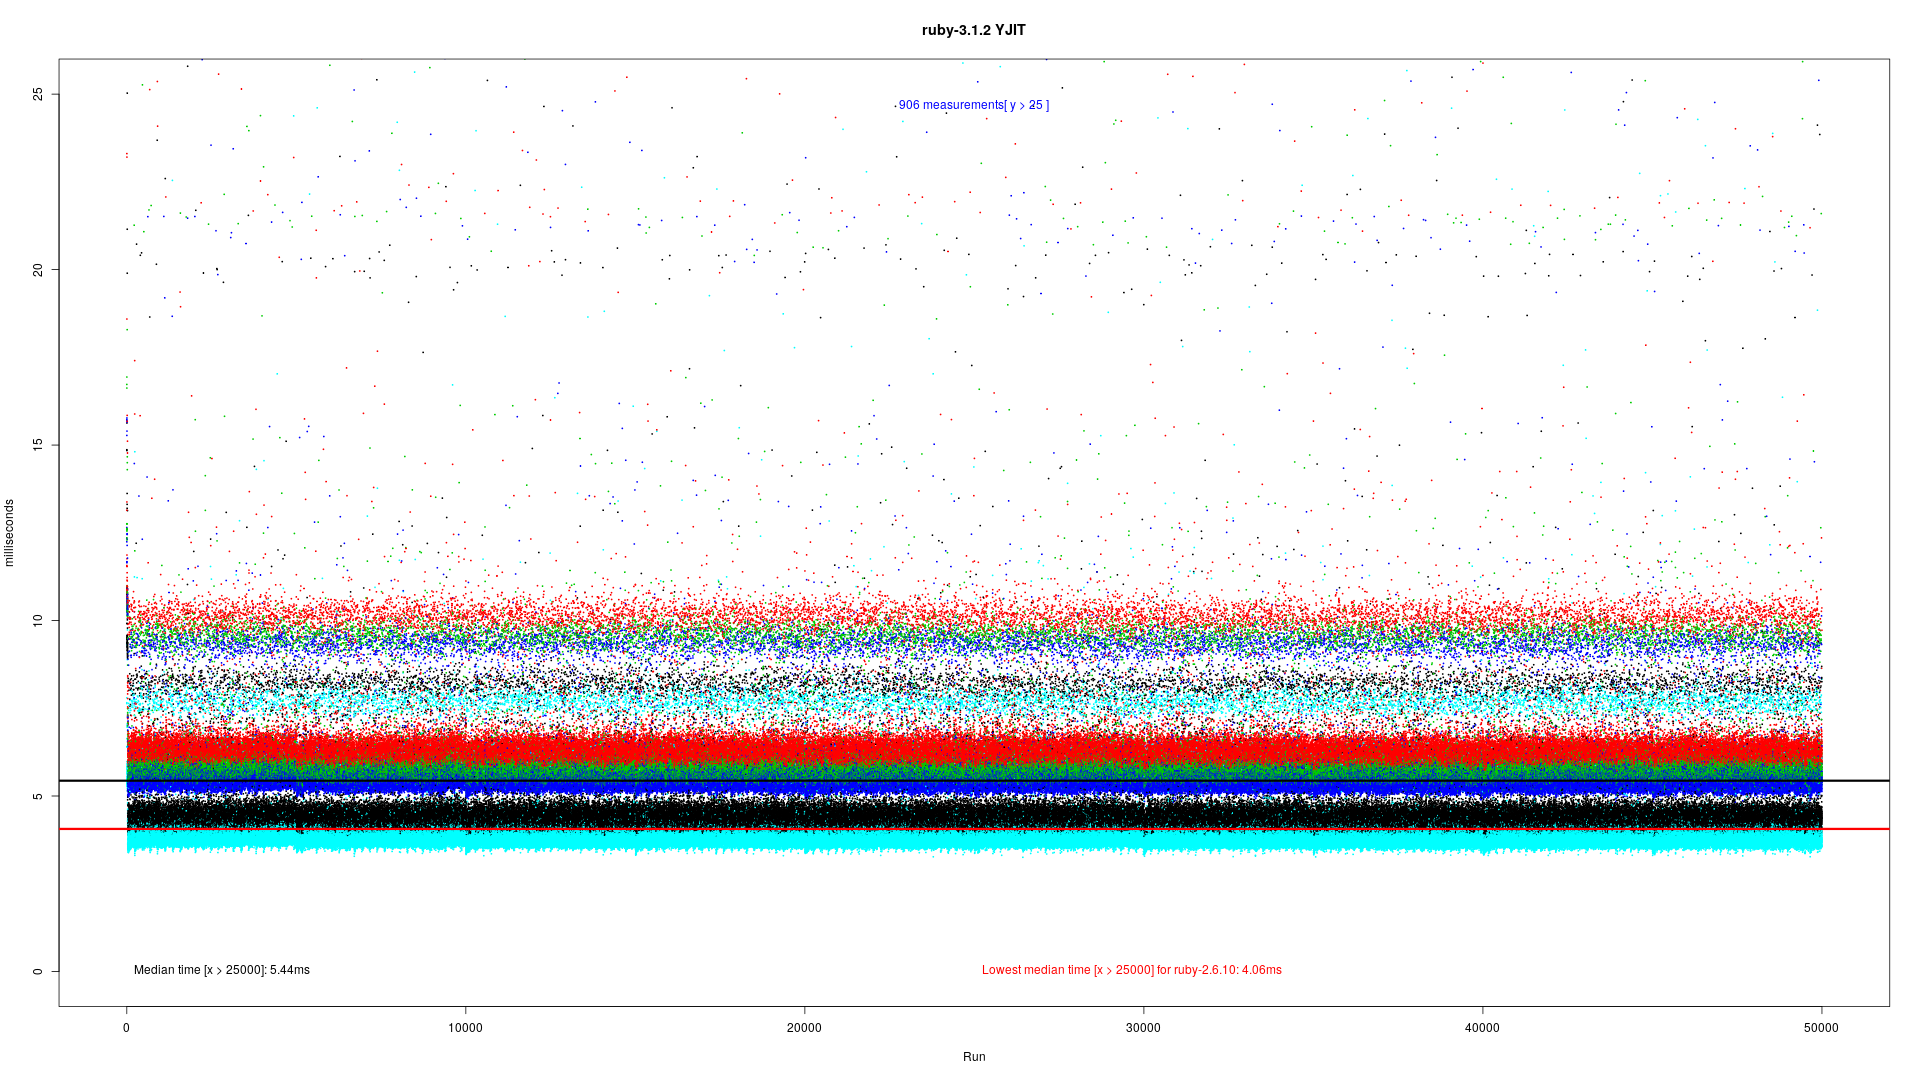
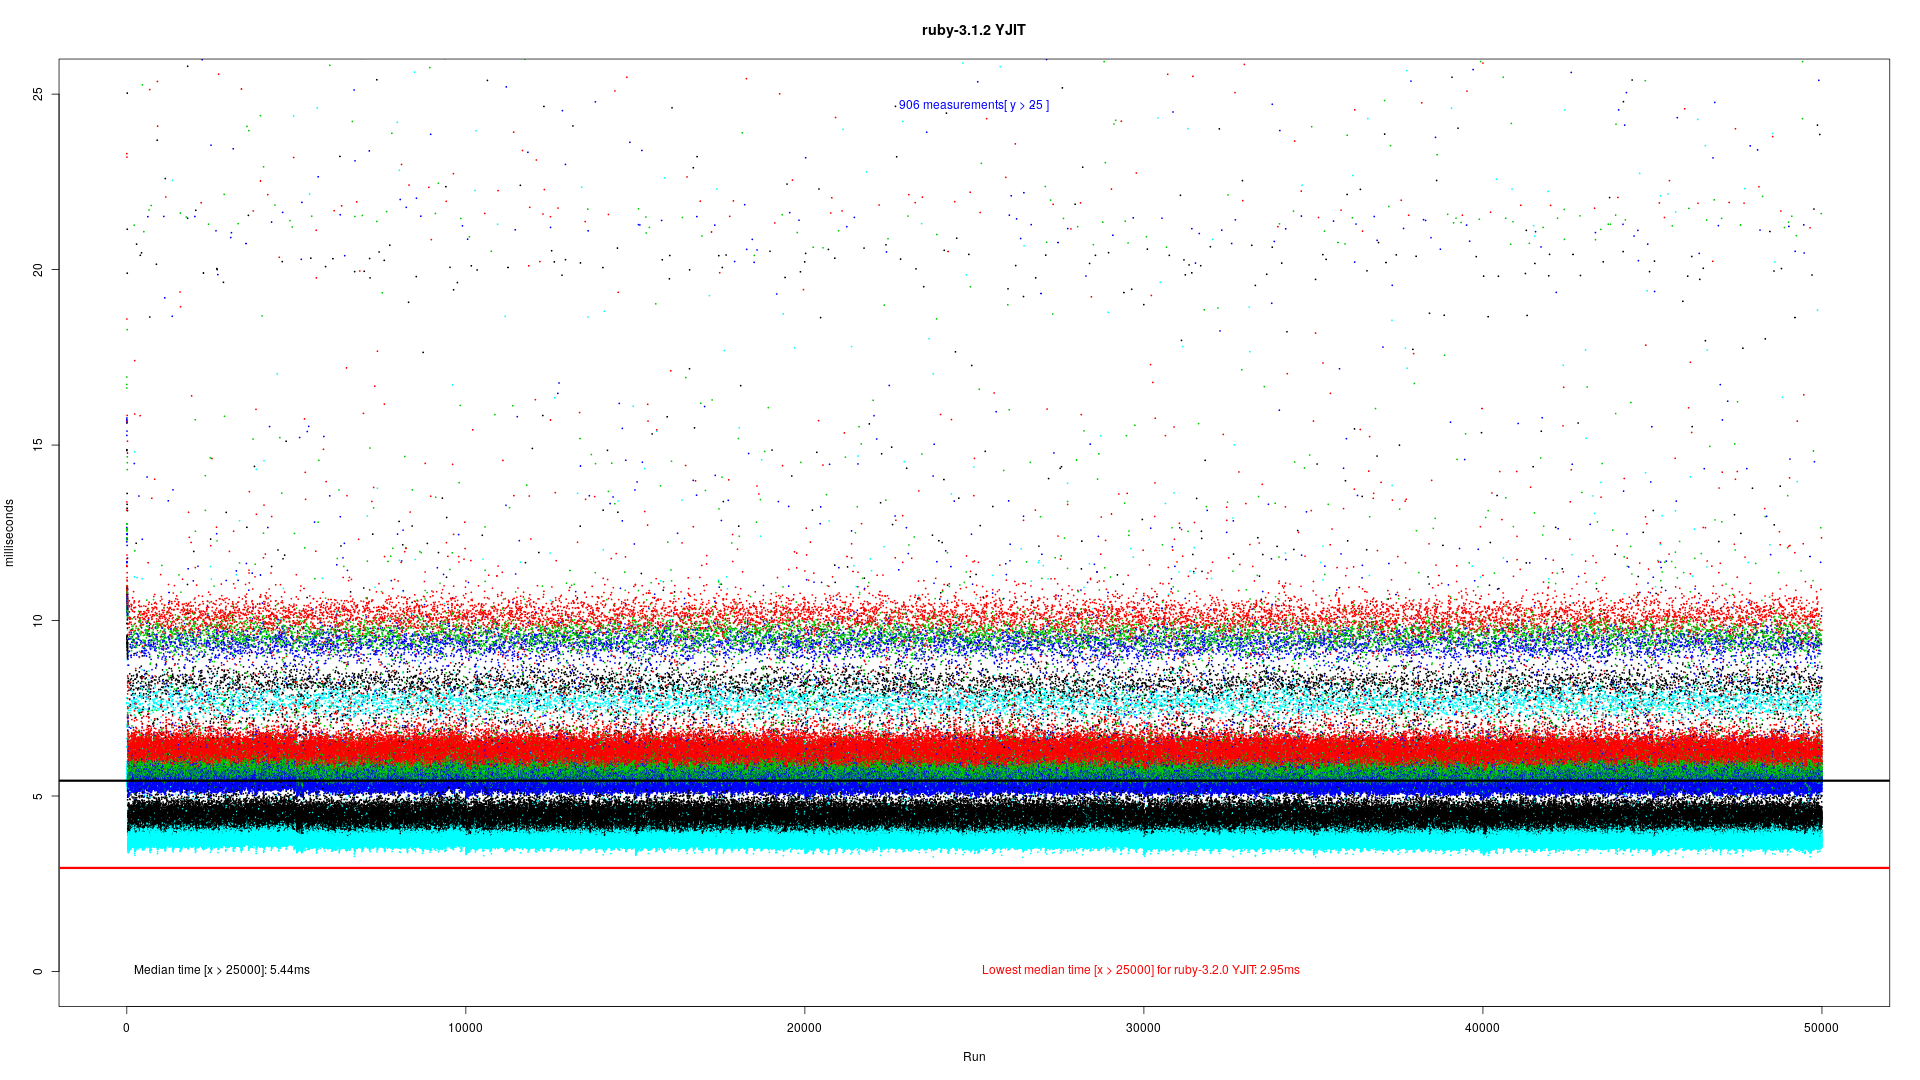
Update rails-devise results using final Ruby 3.2.0

Changed region(s): [[0.625, 0.8861, 0.6875, 0.9167]]

diff --git a/data/rails_devise/README.md b/data/rails_devise/README.md
@@ -12,7 +12,7 @@ Five url's were included in the test:
 5. index-page with bad cookie (cyan)
 
 ## System
-OS: Linux 4.15.0-177-generic #186-Ubuntu SMP Thu Apr 14 20:23:07 UTC 2022 x86_64 GNU/Linux  
+OS: Linux 4.15.0-200-generic #211-Ubuntu SMP Thu Nov 24 18:16:04 UTC 2022 x86_64 GNU/Linux  
 CPU: AuthenticAMD AMD Ryzen 7 2700X Eight-Core Processor  
 
 ## Tested Rubies
@@ -26,17 +26,17 @@ CPU: AuthenticAMD AMD Ryzen 7 2700X Eight-Core Processor
 | ruby-3.1.2                |      |      67Mb |      98Mb |     1180s |    4.67ms |    4.69ms |    2.08ms |    14242 |        0 |   750000 |      545 |
 | ruby-3.1.2                | MJIT |      64Mb |     146Mb |     1321s |    5.05ms |    4.75ms |    3.62ms |    43959 |        0 |   750000 |     2131 |
 | ruby-3.1.2                | YJIT |      77Mb |     132Mb |     1361s |    5.38ms |    5.44ms |    1.98ms |    41548 |        0 |   750000 |      226 |
-| ruby-3.2.0-preview1       |      |      64Mb |      97Mb |     1068s |    4.22ms |    4.26ms |     1.7ms |     3811 |        0 |   750000 |      183 |
-| ruby-3.2.0-preview1       | MJIT |      67Mb |     147Mb |     1198s |    4.51ms |    4.32ms |     3.5ms |    13100 |        0 |   750000 |     1682 |
-| ruby-3.2.0-preview1       | YJIT |      77Mb |     119Mb |     1359s |    5.37ms |    5.42ms |    2.59ms |    35053 |        0 |   750000 |      471 |
+| ruby-3.2.0                |      |      69Mb |     104Mb |     1001s |    3.94ms |    3.99ms |    0.97ms |     2372 |        0 |   750000 |       79 |
+| ruby-3.2.0                | MJIT |      70Mb |     176Mb |     1017s |    4.02ms |    4.09ms |    1.44ms |     1688 |        0 |   750000 |       16 |
+| ruby-3.2.0                | YJIT |      73Mb |     133Mb |      756s |    2.99ms |    2.95ms |    0.86ms |      878 |        0 |   750000 |       65 |
 | truffleruby-22.0.0.2      |      |           |    3319Mb |     1812s |    5.73ms |    4.59ms |   33.92ms |    96883 |        0 |   750000 |      121 |
 
 ## Winners
 
-- Ruby with lowest __slow__ response-count: __ruby-3.2.0-preview1__
-- Ruby with lowest __median__* response-time: __ruby-2.6.10__
-- Ruby with lowest __standard deviation__ response-time: __ruby-2.5.9__
-- Ruby with lowest __mean__* response-time: __ruby-2.6.10__
+- Ruby with lowest __slow__ response-count: __ruby-3.2.0 YJIT__
+- Ruby with lowest __median__* response-time: __ruby-3.2.0 YJIT__
+- Ruby with lowest __standard deviation__ response-time: __ruby-3.2.0 YJIT__
+- Ruby with lowest __mean__* response-time: __ruby-3.2.0 YJIT__
 
 \* Mean and median are calculated after warmup (x > N/2).
 
@@ -68,14 +68,14 @@ CPU: AuthenticAMD AMD Ryzen 7 2700X Eight-Core Processor
 ## Response-times ruby-3.1.2 YJIT
 ![Response-times ruby-3.1.2 YJIT](/data/rails_devise/plots/rails_devise_1_ruby-3.1.2%20YJIT.png "Response-times ruby-3.1.2 YJIT")
 
-## Response-times ruby-3.2.0-preview1
-![Response-times ruby-3.2.0-preview1](/data/rails_devise/plots/rails_devise_1_ruby-3.2.0.png "Response-times ruby-3.2.0-preview1")
+## Response-times ruby-3.2.0
+![Response-times ruby-3.2.0](/data/rails_devise/plots/rails_devise_1_ruby-3.2.0.png "Response-times ruby-3.2.0")
 
-## Response-times ruby-3.2.0-preview1 MJIT
-![Response-times ruby-3.2.0-preview1 MJIT](/data/rails_devise/plots/rails_devise_1_ruby-3.2.0%20MJIT.png "Response-times ruby-3.2.0-preview1 MJIT")
+## Response-times ruby-3.2.0 MJIT
+![Response-times ruby-3.2.0 MJIT](/data/rails_devise/plots/rails_devise_1_ruby-3.2.0%20MJIT.png "Response-times ruby-3.2.0 MJIT")
 
-## Response-times ruby-3.2.0-preview1 YJIT
-![Response-times ruby-3.2.0-preview1 YJIT](/data/rails_devise/plots/rails_devise_1_ruby-3.2.0%20YJIT.png "Response-times ruby-3.2.0-preview1 YJIT")
+## Response-times ruby-3.2.0 YJIT
+![Response-times ruby-3.2.0 YJIT](/data/rails_devise/plots/rails_devise_1_ruby-3.2.0%20YJIT.png "Response-times ruby-3.2.0 YJIT")
 
 ## Response-times truffleruby-22.0.0.2
 ![Response-times truffleruby-22.0.0.2](/data/rails_devise/plots/rails_devise_1_truffleruby-22.0.0.2.png "Response-times truffleruby-22.0.0.2")
@@ -104,14 +104,14 @@ CPU: AuthenticAMD AMD Ryzen 7 2700X Eight-Core Processor
 ## Detailed response-times ruby-3.1.2 YJIT
 ![Detailed response-times ruby-3.1.2 YJIT](/data/rails_devise/plots/rails_devise_2_ruby-3.1.2%20YJIT.png "Detailed response-times ruby-3.1.2 YJIT")
 
-## Detailed response-times ruby-3.2.0-preview1
-![Detailed response-times ruby-3.2.0-preview1](/data/rails_devise/plots/rails_devise_2_ruby-3.2.0.png "Detailed response-times ruby-3.2.0-preview1")
+## Detailed response-times ruby-3.2.0
+![Detailed response-times ruby-3.2.0](/data/rails_devise/plots/rails_devise_2_ruby-3.2.0.png "Detailed response-times ruby-3.2.0")
 
-## Detailed response-times ruby-3.2.0-preview1 MJIT
-![Detailed response-times ruby-3.2.0-preview1 MJIT](/data/rails_devise/plots/rails_devise_2_ruby-3.2.0%20MJIT.png "Detailed response-times ruby-3.2.0-preview1 MJIT")
+## Detailed response-times ruby-3.2.0 MJIT
+![Detailed response-times ruby-3.2.0 MJIT](/data/rails_devise/plots/rails_devise_2_ruby-3.2.0%20MJIT.png "Detailed response-times ruby-3.2.0 MJIT")
 
-## Detailed response-times ruby-3.2.0-preview1 YJIT
-![Detailed response-times ruby-3.2.0-preview1 YJIT](/data/rails_devise/plots/rails_devise_2_ruby-3.2.0%20YJIT.png "Detailed response-times ruby-3.2.0-preview1 YJIT")
+## Detailed response-times ruby-3.2.0 YJIT
+![Detailed response-times ruby-3.2.0 YJIT](/data/rails_devise/plots/rails_devise_2_ruby-3.2.0%20YJIT.png "Detailed response-times ruby-3.2.0 YJIT")
 
 ## Detailed response-times truffleruby-22.0.0.2
 ![Detailed response-times truffleruby-22.0.0.2](/data/rails_devise/plots/rails_devise_2_truffleruby-22.0.0.2.png "Detailed response-times truffleruby-22.0.0.2")
